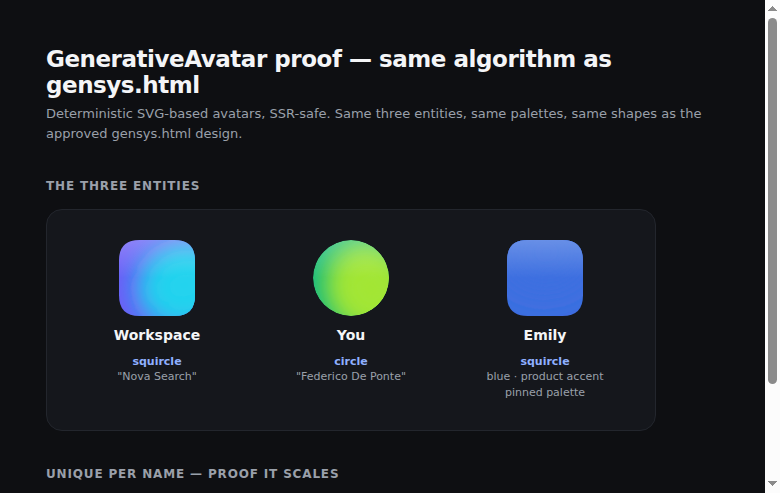
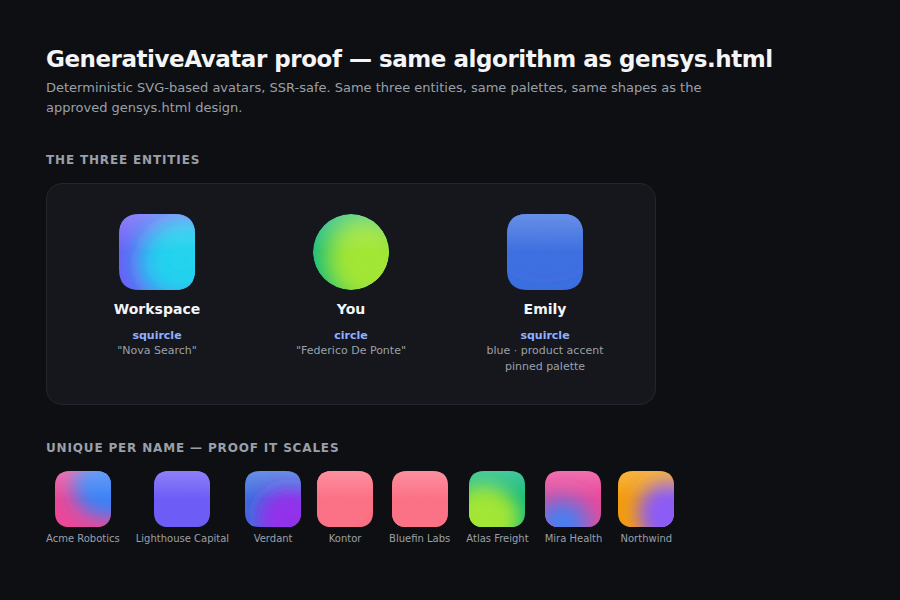
fix(tests): resolve pre-existing TS error in command-palette test
WorkerSummary type gained required fields (tags, status, trigger_type,
runner, triggers) in PR #1628 but the test helper wasn't updated.
Cast the stub to avoid exhaustive boilerplate — the ranking function
only reads id/name/description.

Also update avatar-proof.png with larger dimensions (900x600).

diff --git a/apps/web/tests/command-palette.test.ts b/apps/web/tests/command-palette.test.ts
@@ -3,7 +3,9 @@ import { rankWorkersForCommandPalette } from "@/lib/command-palette";
 import type { WorkerSummary } from "@/lib/types";
 
 function worker(id: string, name: string, description = ""): WorkerSummary {
-  return { id, name, description };
+  // WorkerSummary has required fields beyond id/name/description; the ranking
+  // function only reads these three, so cast to avoid exhaustive stub data.
+  return { id, name, description } as unknown as WorkerSummary;
 }
 
 describe("command palette worker ranking", () => {
